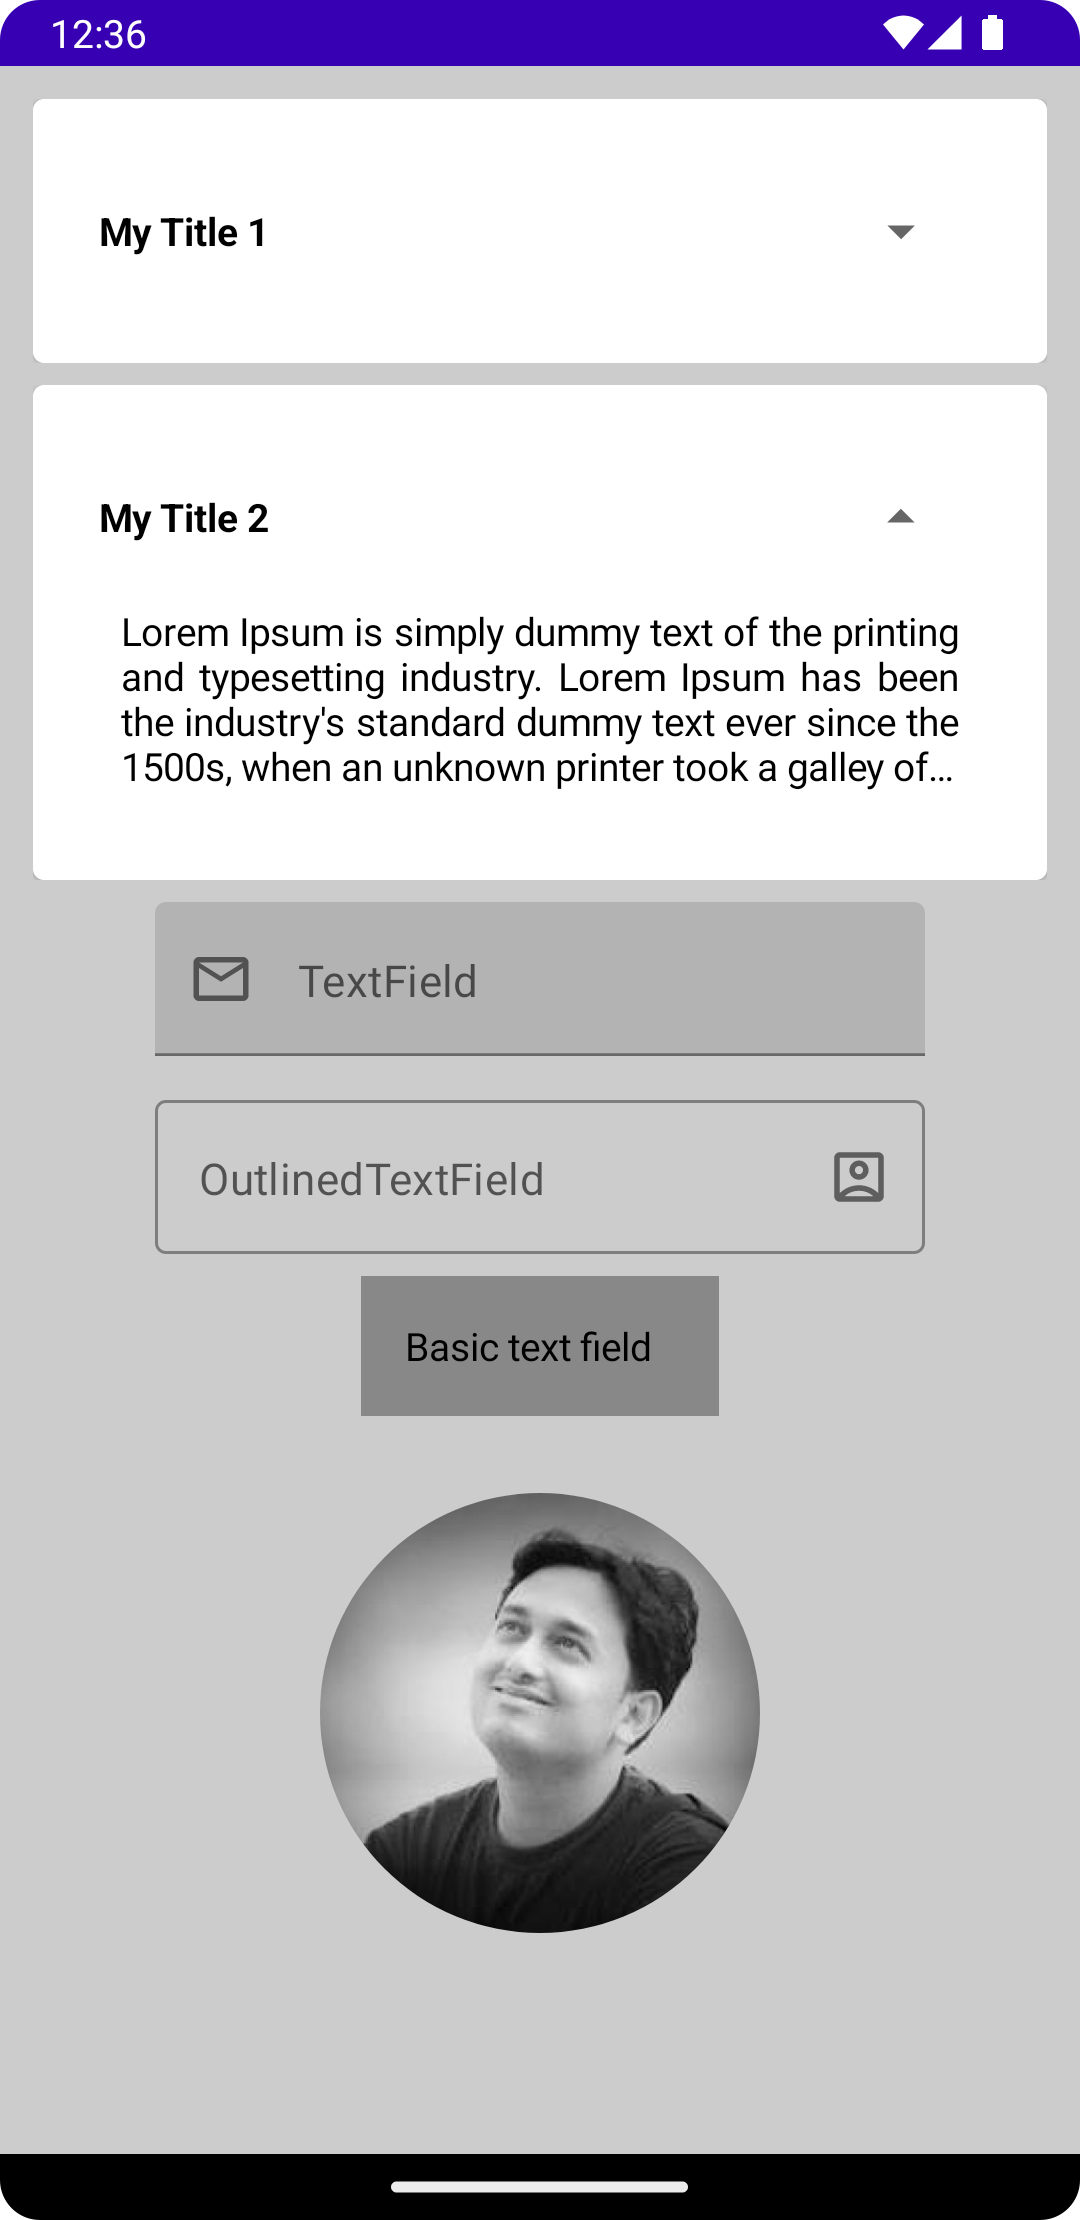
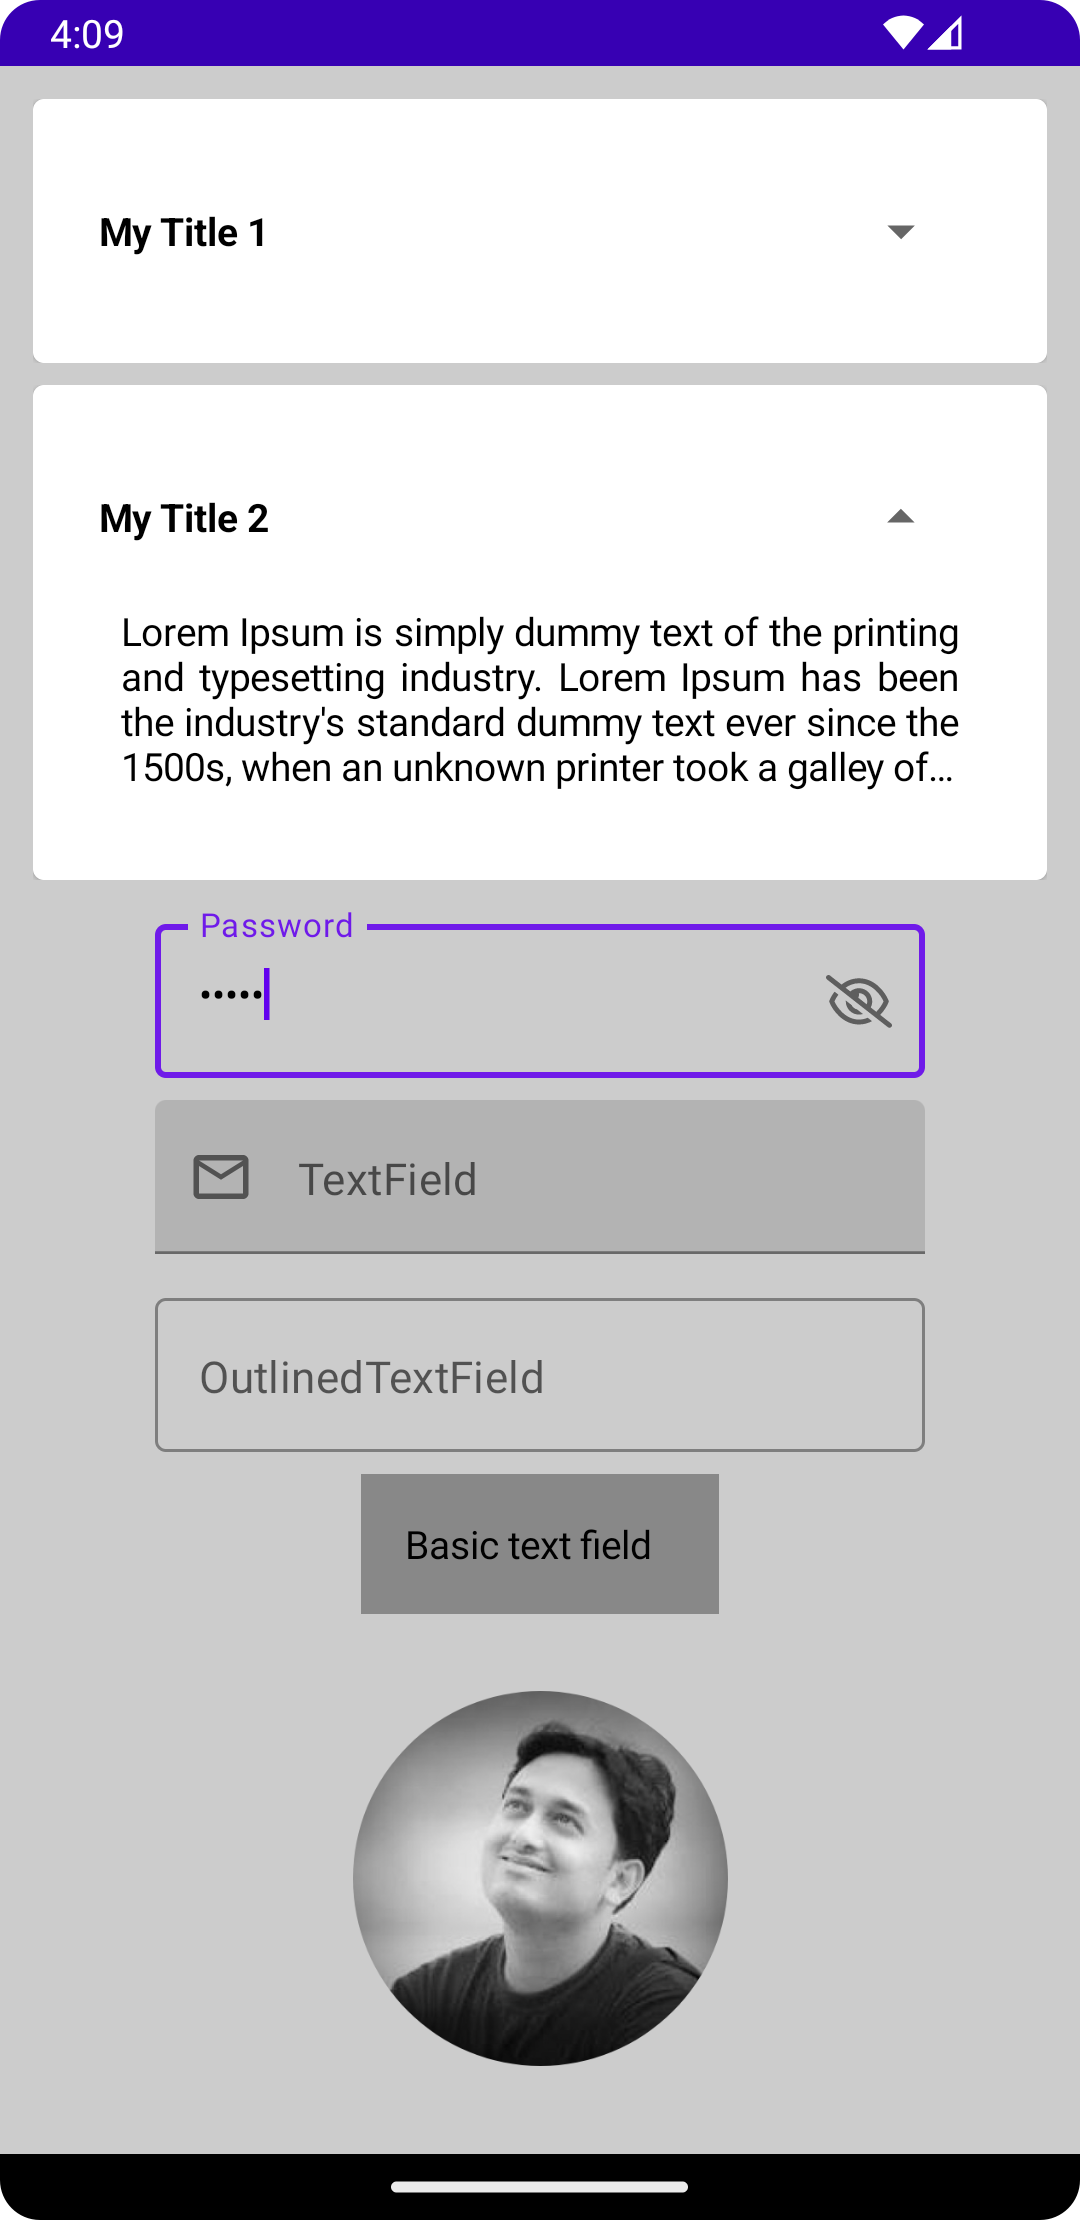
Add password textfield

Changed region(s): [[0.1222, 0.4041, 0.8556, 0.9324], [0.0306, 0.0, 0.1222, 0.0311], [0.8861, 0.0, 0.9472, 0.0311]]

diff --git a/app/src/main/java/com/example/jetpackcomposesample/ExpandableCardActivity.kt b/app/src/main/java/com/example/jetpackcomposesample/ExpandableCardActivity.kt
@@ -12,9 +12,11 @@ import androidx.compose.foundation.text.KeyboardActions
 import androidx.compose.foundation.text.KeyboardOptions
 import androidx.compose.material.*
 import androidx.compose.material.icons.Icons
+import androidx.compose.material.icons.filled.Close
 import androidx.compose.material.icons.outlined.AccountBox
 import androidx.compose.material.icons.outlined.Email
 import androidx.compose.runtime.*
+import androidx.compose.runtime.saveable.rememberSaveable
 import androidx.compose.ui.Alignment
 import androidx.compose.ui.Modifier
 import androidx.compose.ui.graphics.Color
@@ -23,6 +25,8 @@ import androidx.compose.ui.platform.LocalContext
 import androidx.compose.ui.res.painterResource
 import androidx.compose.ui.text.input.ImeAction
 import androidx.compose.ui.text.input.KeyboardType
+import androidx.compose.ui.text.input.PasswordVisualTransformation
+import androidx.compose.ui.text.input.VisualTransformation
 import androidx.compose.ui.tooling.preview.Preview
 import androidx.compose.ui.unit.dp
 import coil.compose.AsyncImagePainter
@@ -51,9 +55,11 @@ class ExpandableCardActivity : ComponentActivity() {
                     description = "Lorem Ipsum is simply dummy text of the printing and typesetting industry. Lorem Ipsum has been the industry's standard dummy text ever since the 1500s, when an unknown printer took a galley of type and scrambled it to make a type specimen book. It has survived not only five centuries, but also the leap into electronic typesetting, remaining essentially unchanged. It was popularised in the 1960s with the release of Letraset sheets containing Lorem Ipsum passages, and more recently with desktop publishing software like Aldus PageMaker including versions of Lorem Ipsum."
                 )
                 DividerTransparent()
+                PasswordTextField()
+                DividerTransparent()
                 TextFieldInputWithLeadingIcon(leadingIcon = Icons.Outlined.Email)
                 DividerTransparent()
-                OutlinedTextFieldWithTrailingIcon(trailingIcon = Icons.Outlined.AccountBox)
+                OutlinedTextFieldWithTrailingIcon(trailingIcon = Icons.Filled.Close)
                 DividerTransparent()
                 BasicTextFieldInput()
                 DividerTransparent()
@@ -64,33 +70,31 @@ class ExpandableCardActivity : ComponentActivity() {
 }
 
 @Composable
-fun BasicTextFieldInput() {
-    var text by remember { mutableStateOf("Basic text field") }
-    BasicTextField(
-        value = text,
-        modifier = Modifier
-            .background(Color.Gray)
-            .padding(16.dp),
-        onValueChange = { text = it },
-        singleLine = true
-    )
-}
+fun PasswordTextField() {
+    var password by rememberSaveable { mutableStateOf("") }
+    var passwordVisibility by remember { mutableStateOf(false) }
+    val icon =
+        if (passwordVisibility) painterResource(R.drawable.eye_regular) else painterResource(R.drawable.eye_slash_regular)
 
-@Composable
-fun TextFieldInputWithLeadingIcon(leadingIcon: ImageVector) {
-    var text by remember { mutableStateOf("") }
-    TextField(
-        value = text,
-        onValueChange = { text = it },
-        enabled = true,
-        readOnly = false,
-        label = { Text(text = "TextField") }, //Similar to hint
-        singleLine = true,
-        leadingIcon = {
-            IconButton(onClick = {}) {
-                Icon(imageVector = leadingIcon, contentDescription = "")
+    OutlinedTextField(
+        value = password, onValueChange = { password = it },
+        //placeholder = { Text(text = "Password") },
+        label = { Text(text = "Password") },
+        trailingIcon = {
+            IconButton(modifier = Modifier.size(24.dp), onClick = {
+                passwordVisibility = !passwordVisibility
+            }) {
+                Icon(
+                    painter = icon,
+                    contentDescription = "Show password"
+                )
             }
-        }
+        },
+        keyboardOptions = KeyboardOptions(keyboardType = KeyboardType.Password),
+        visualTransformation = if (passwordVisibility)
+            VisualTransformation.None
+        else
+            PasswordVisualTransformation()
     )
 }
 
@@ -125,6 +129,19 @@ fun CoilImageViewer() {
 }
 
 @Composable
+fun BasicTextFieldInput() {
+    var text by remember { mutableStateOf("Basic text field") }
+    BasicTextField(
+        value = text,
+        modifier = Modifier
+            .background(Color.Gray)
+            .padding(16.dp),
+        onValueChange = { text = it },
+        singleLine = true
+    )
+}
+
+@Composable
 fun OutlinedTextFieldWithTrailingIcon(trailingIcon: ImageVector) {
     var text by remember { mutableStateOf("") }
     OutlinedTextField(
@@ -135,8 +152,10 @@ fun OutlinedTextFieldWithTrailingIcon(trailingIcon: ImageVector) {
         label = { Text(text = "OutlinedTextField") }, //Similar to hint
         singleLine = true,
         trailingIcon = {
-            IconButton(onClick = { Log.d("InputWithTrailingIcon", "trailingIcon clicked!") }) {
-                Icon(imageVector = trailingIcon, contentDescription = "")
+            if (text.isNotBlank()) {
+                IconButton(onClick = { text = "" }) {
+                    Icon(imageVector = trailingIcon, contentDescription = "")
+                }
             }
         },
         keyboardOptions = KeyboardOptions(
@@ -148,6 +167,24 @@ fun OutlinedTextFieldWithTrailingIcon(trailingIcon: ImageVector) {
                 Log.d("InputWithTrailingIcon", "Keyboard Search icon pressed!")
             }
         )
+    )
+}
+
+@Composable
+fun TextFieldInputWithLeadingIcon(leadingIcon: ImageVector) {
+    var text by rememberSaveable { mutableStateOf("") }
+    TextField(
+        value = text,
+        onValueChange = { text = it },
+        enabled = true,
+        readOnly = false,
+        label = { Text(text = "TextField") }, //Similar to hint
+        singleLine = true,
+        leadingIcon = {
+            IconButton(onClick = {}) {
+                Icon(imageVector = leadingIcon, contentDescription = "")
+            }
+        }
     )
 }
 
@@ -170,6 +207,8 @@ fun DefaultPreviewExpandableCardActivity() {
             title = "My Title 2",
             description = "Lorem Ipsum is simply dummy text of the printing and typesetting industry. Lorem Ipsum has been the industry's standard dummy text ever since the 1500s, when an unknown printer took a galley of type and scrambled it to make a type specimen book. It has survived not only five centuries, but also the leap into electronic typesetting, remaining essentially unchanged. It was popularised in the 1960s with the release of Letraset sheets containing Lorem Ipsum passages, and more recently with desktop publishing software like Aldus PageMaker including versions of Lorem Ipsum."
         )
+        DividerTransparent()
+        PasswordTextField()
         DividerTransparent()
         TextFieldInputWithLeadingIcon(leadingIcon = Icons.Outlined.Email)
         DividerTransparent()
